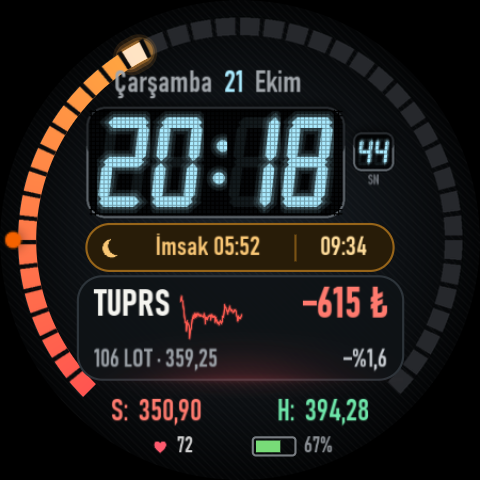
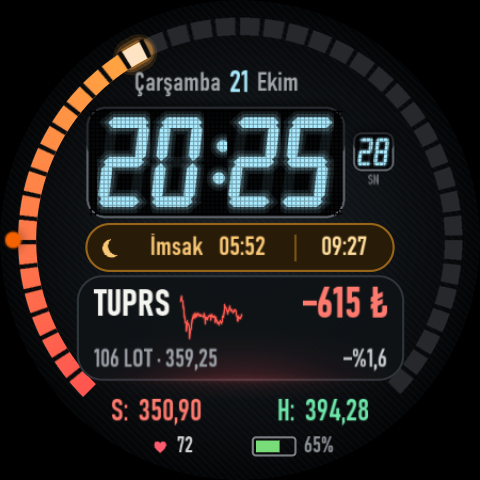
Saat A: namaz vakti adı-saat arası 3 boşluk; tarih: gün adı/ay eski boyut, sayı büyük, grup halkadan uzak

diff --git a/WatchApp/design/gen_faces.py b/WatchApp/design/gen_faces.py
@@ -401,7 +401,7 @@ def face_ultra():
         f'<Default>{text(tpl_x, ty, tpl_w, size + 4, "%s", ["[COMPLICATION.TEXT]"], "bc", size, "#ffb4b2a9", "END", 140)}</Default>'
         '</Condition>')
 
-    DC = 225 + k(22)   # tarihte gün sayısının merkezi: gün adları aydan uzun → biraz sağda dengeli
+    DC = 225 + k(26)   # tarihte gün sayısının merkezi: gün adları aydan uzun → biraz sağda dengeli
     c_, cl = VFD["cell"], VFD["colon"]
     clock_xml = vfd_cells(VFD, [
         (0, c_, "=floor([HOUR_0_23] / 10)", "8"), (c_, c_, "=[HOUR_0_23] % 10", "8"),
@@ -430,9 +430,9 @@ def face_ultra():
               '<BoundingOval x="0" y="0" width="450" height="450" />')}
         <PartImage x="0" y="0" width="450" height="450">{amb(0)}<Image resource="ring_gaps" /></PartImage>
 
-        {text(0, k(82), DC - k(19), k(38), "%s", ["[DAY_OF_WEEK_F]"], "sc", k(28), "#ffa0a5aa", "END", 110)}
-        {text(DC - k(19), k(82), 2 * k(19), k(38), "%s", ["[DAY]"], "sc", k(28), "#ffaaebff", "CENTER", 140)}
-        {text(DC + k(19), k(82), 450 - DC - k(19), k(38), "%s", ["[MONTH_F]"], "sc", k(28), "#ffa0a5aa", "START", 110)}
+        {text(0, k(82), DC - k(16), k(38), "%s", ["[DAY_OF_WEEK_F]"], "sc", k(25), "#ffa0a5aa", "END", 110)}
+        {text(DC - k(16), k(82), 2 * k(16), k(38), "%s", ["[DAY]"], "sc", k(28), "#ffaaebff", "CENTER", 140)}
+        {text(DC + k(16), k(82), 450 - DC - k(16), k(38), "%s", ["[MONTH_F]"], "sc", k(25), "#ffa0a5aa", "START", 110)}
 
 {clock_xml}
           <PartImage x="{WIN[0]}" y="{WIN[1]}" width="{WIN[2] - WIN[0]}" height="{WIN[3] - WIN[1]}"><Image resource="vfd_mesh" /></PartImage>
@@ -447,7 +447,7 @@ def face_ultra():
         </PartDraw>
         <PartImage x="{k(116)}" y="{k(237)}" width="{k(20)}" height="{k(20)}">{amb(140)}<Image resource="ic_moon" /></PartImage>
         {slot(1, k(138), k(226), k(148), k(42), "SHORT_TEXT", EZAN + "SonrakiVakitComplicationProviderService", "SHORT_TEXT", "slot_ezan",
-              text(0, k(2), k(148), k(38), "%s %s", ["[COMPLICATION.TITLE]", "[COMPLICATION.TEXT]"], "sc", k(25), AMBER, "CENTER", 150))}
+              text(0, k(2), k(148), k(38), "%s   %s", ["[COMPLICATION.TITLE]", "[COMPLICATION.TEXT]"], "sc", k(25), AMBER, "CENTER", 150))}
         {slot(5, k(290), k(226), k(84), k(42), "SHORT_TEXT", EZAN + "VaktinCikmasinaComplicationProviderService", "SHORT_TEXT", "slot_kalan",
               text(0, k(2), k(84), k(38), "%s", ["[COMPLICATION.TEXT]"], "sc", k(25), "#ffffdc9a", "CENTER", 150))}
 
